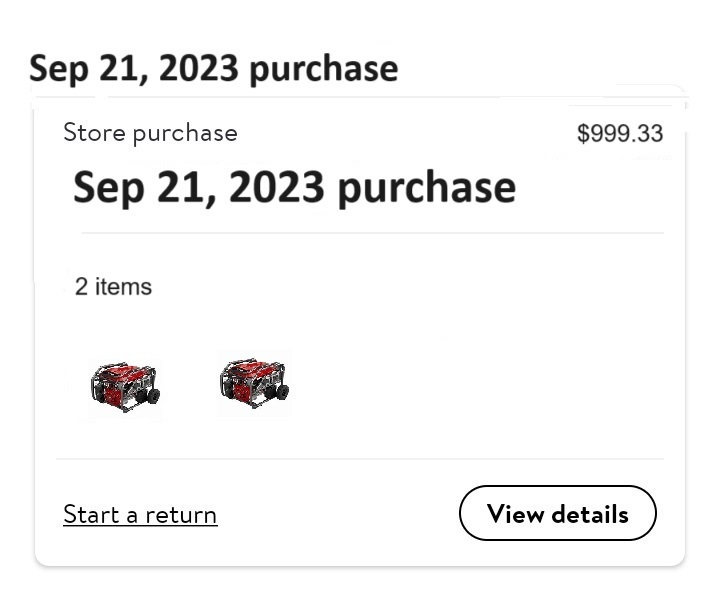
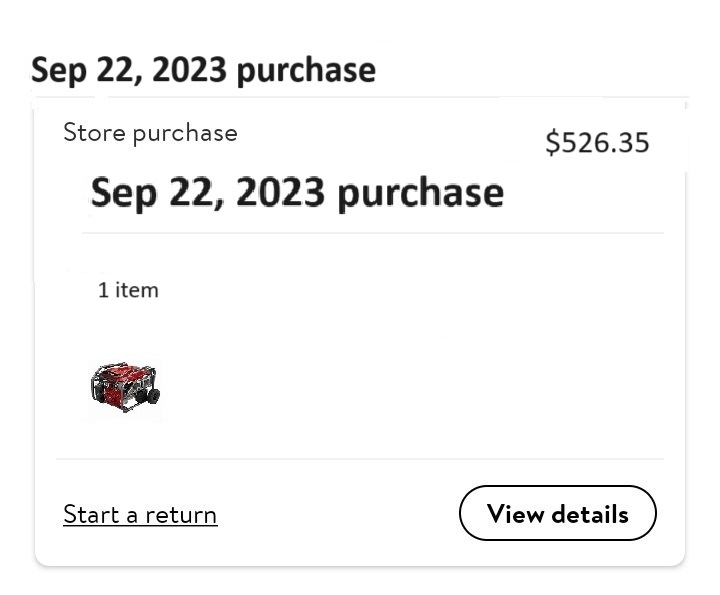
3773

diff --git a/pd2.html b/pd2.html
@@ -14,7 +14,7 @@
 	<title>pd html</title>
 </head>
 <body>
-	<h1><a href="rec0921.jpg"><img src="pdtop.jpg" alt="pd1"></h1>
+	<h1><a href="rec0922.jpg"><img src="pdtop.jpg" alt="pd1"></h1>
 	<h2><img src="price.jpg" alt="payprice"></h2>
 </body>
 </html>
